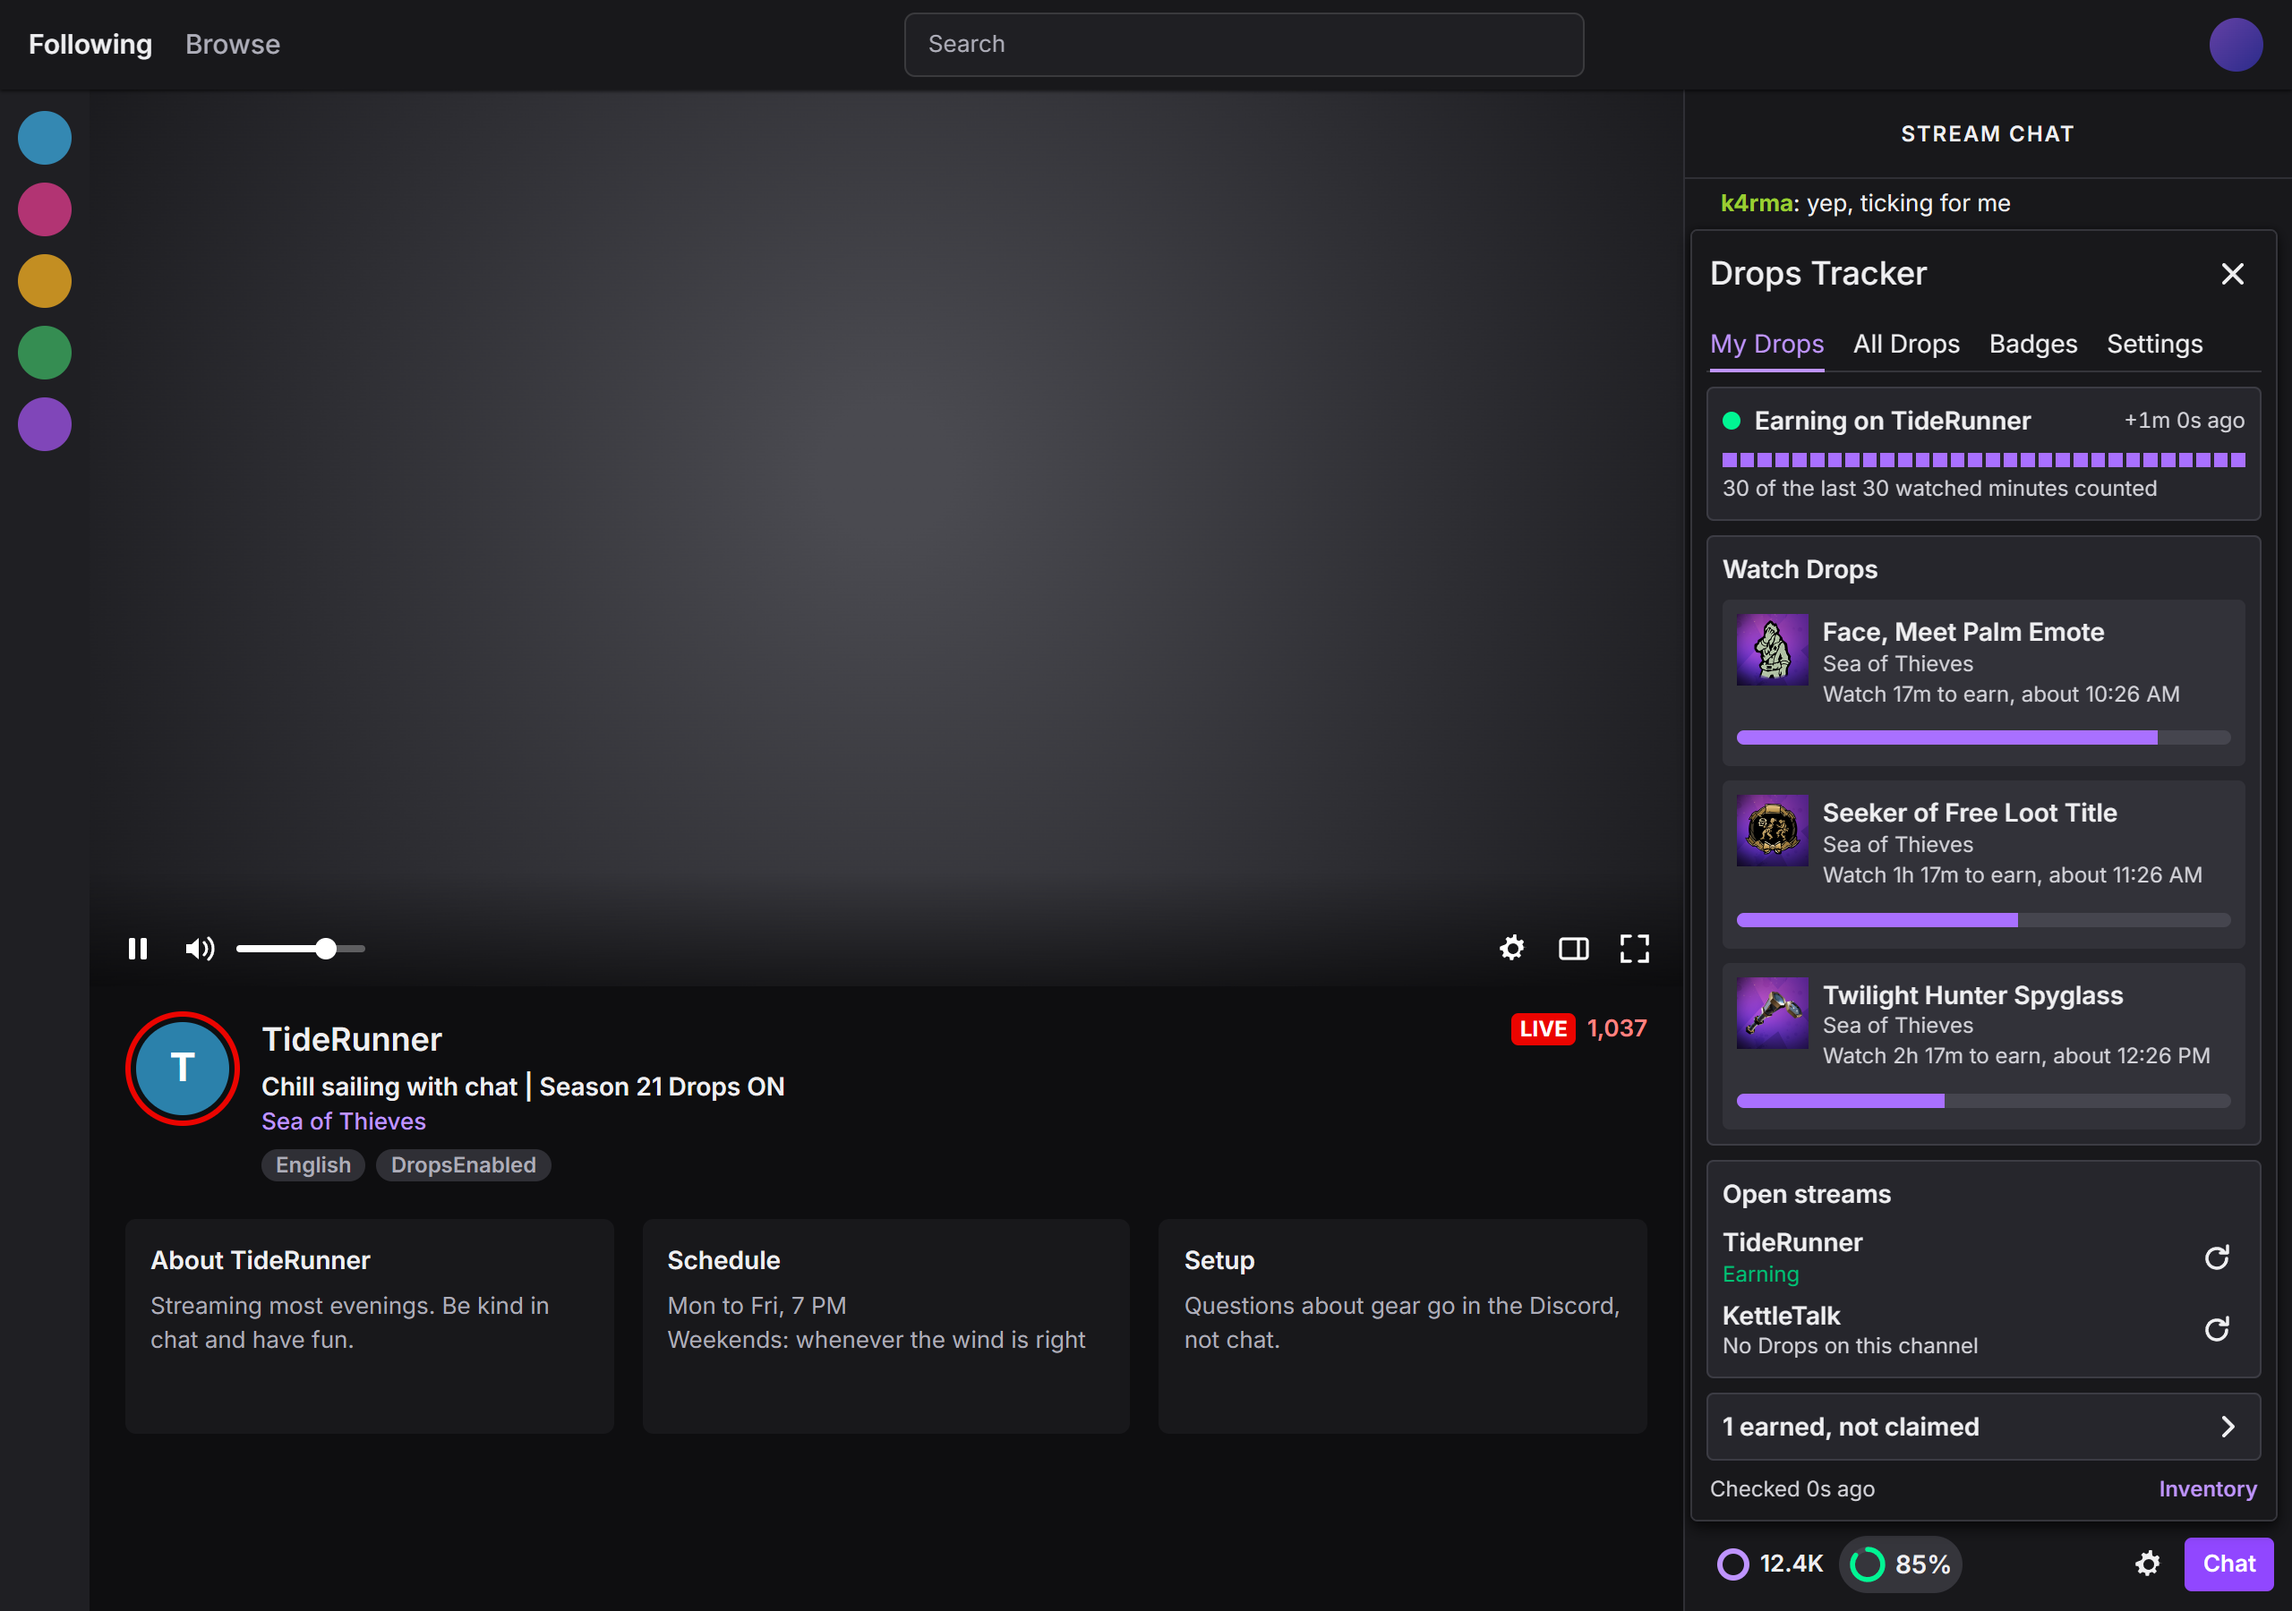
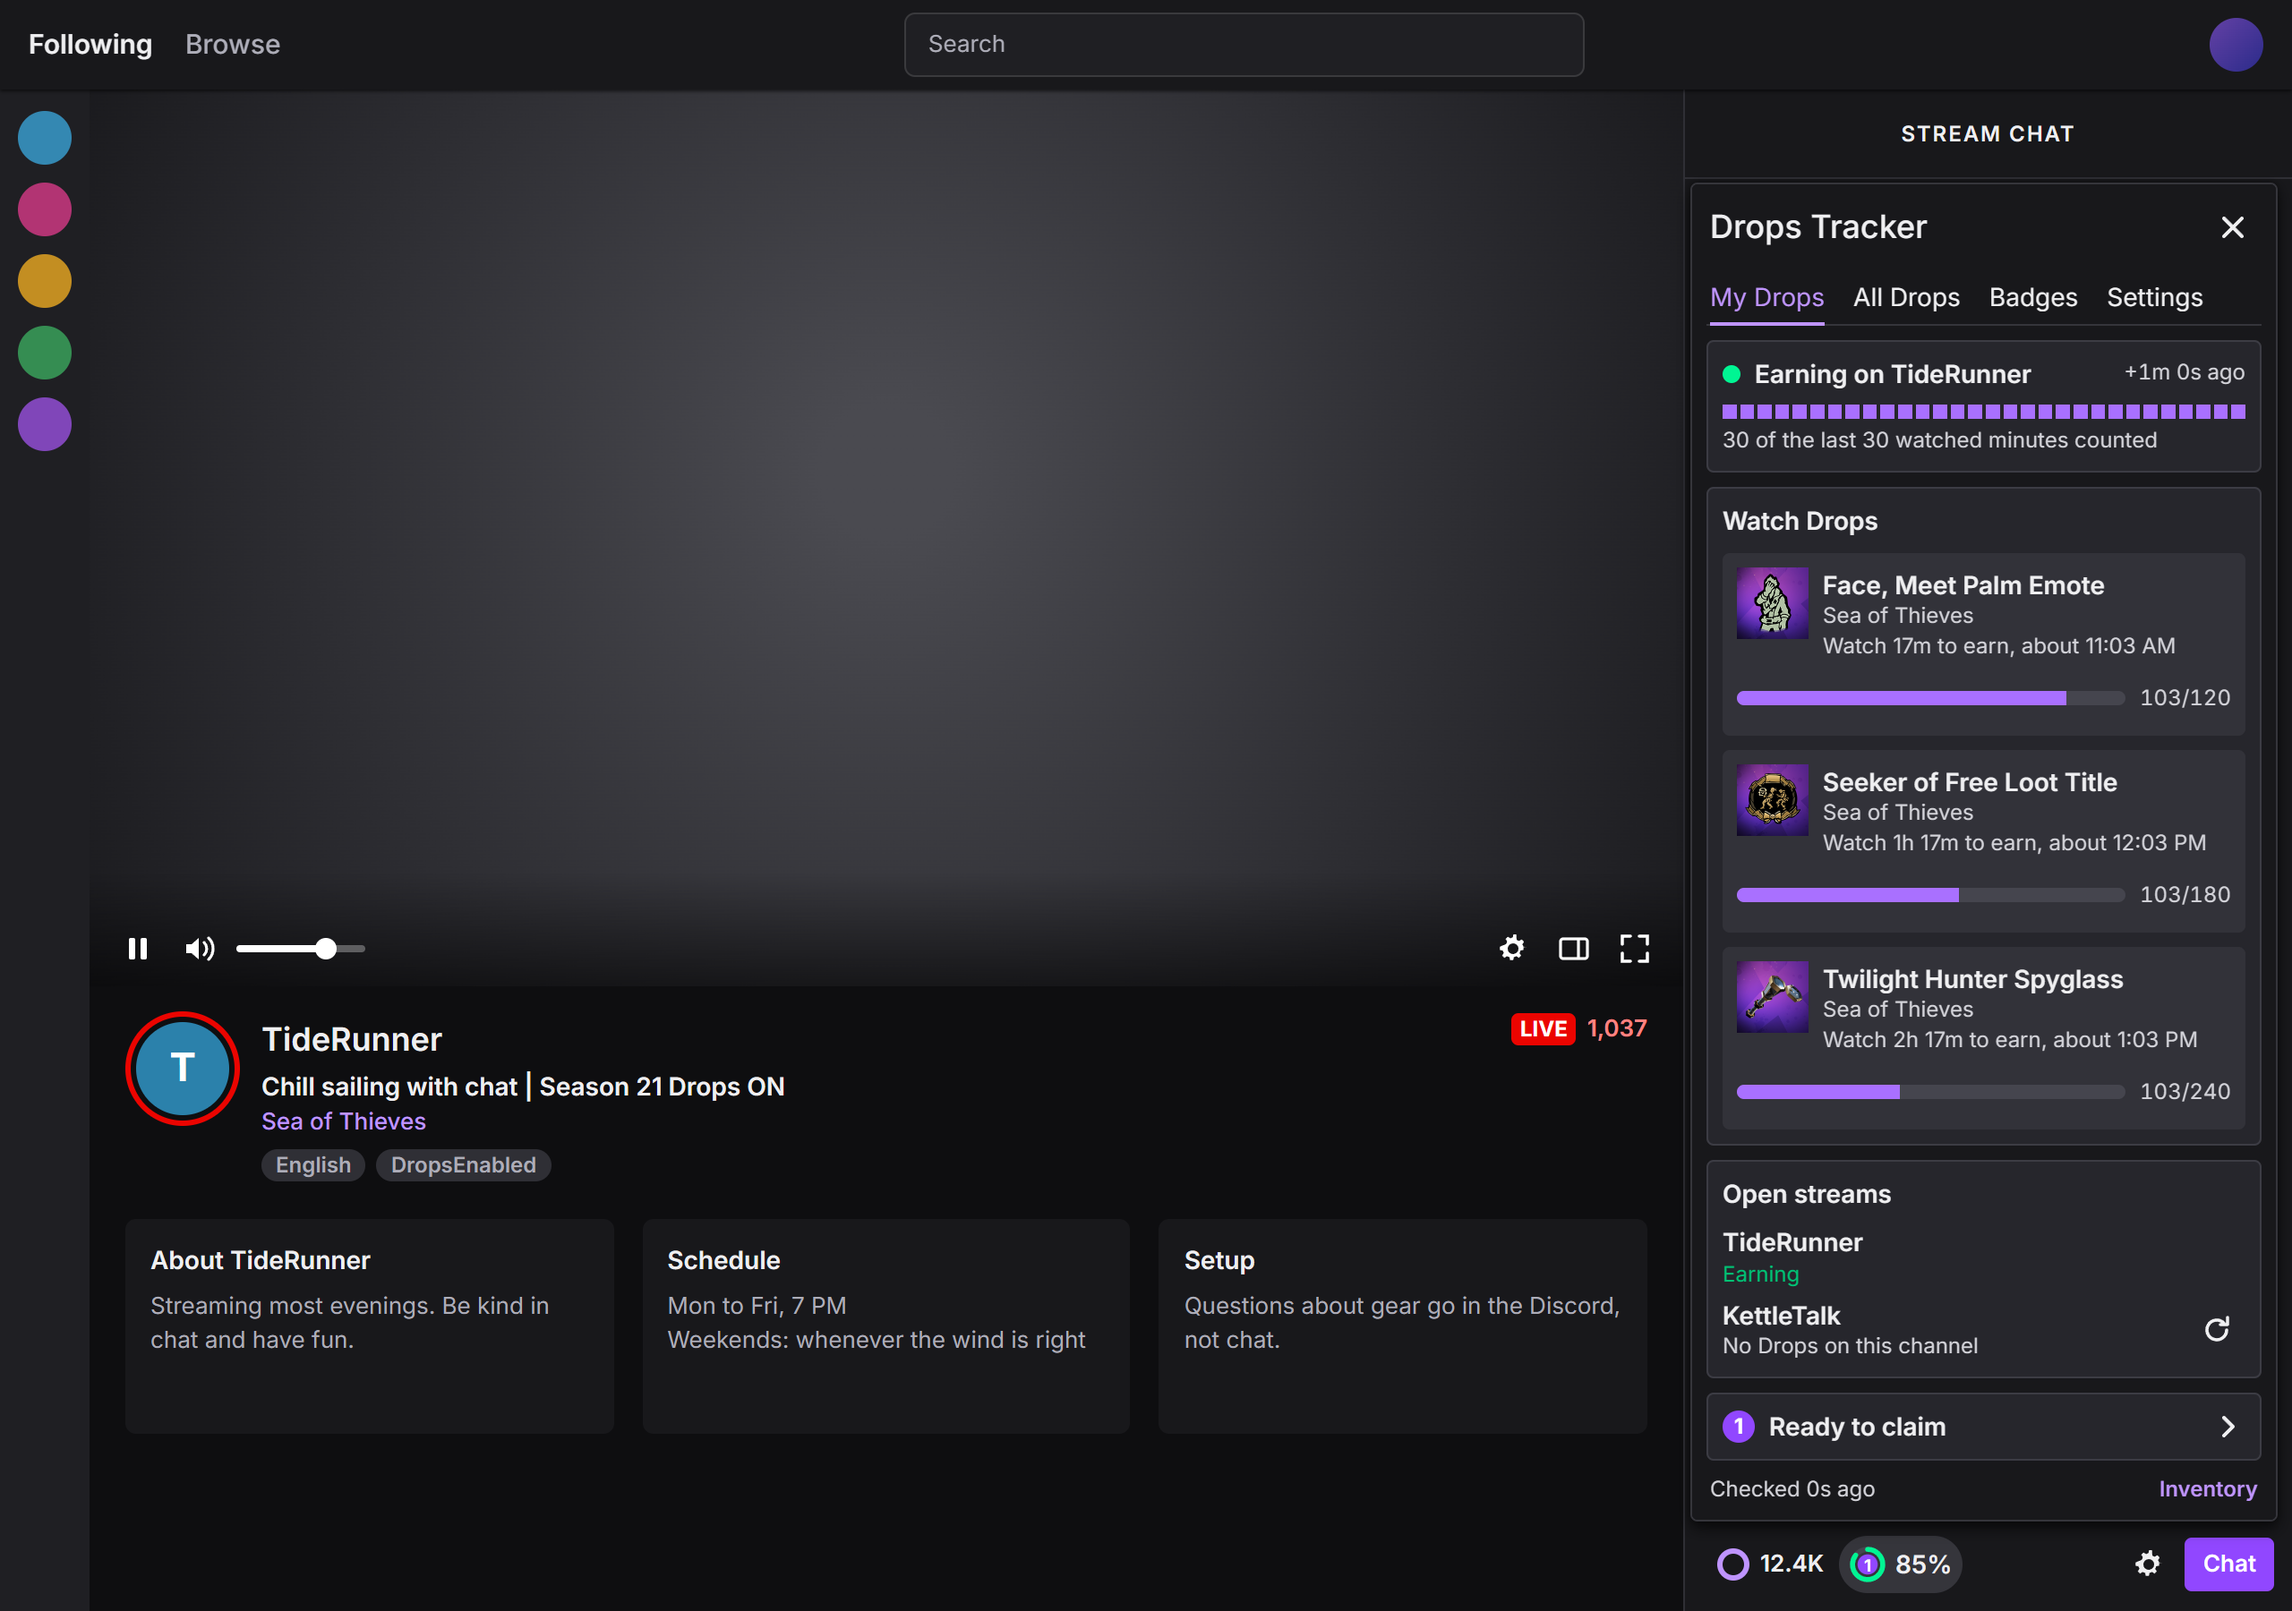
Drops Tracker: describe the tab helpers, debug copies; new images
- Homepage: the two helpers that reload Twitch tabs, both on by default
  and switchable off, instead of "read-only".
- Privacy policy: Copy debug info and Copy log hold a day of
  minute-by-minute channels; the claim notification can be switched
  off; images load from addresses Twitch supplies; single purpose
  sentence matches the store listing.
- New hero and chip-states images.

Changed region(s): [[0.75, 0.1244, 1.0, 0.7156], [0.75, 0.8711, 0.875, 0.9022], [0.9688, 0.1244, 1.0, 0.1556]]

diff --git a/drops-tracker/privacy/index.html b/drops-tracker/privacy/index.html
@@ -39,7 +39,7 @@
       <p>The extension looks only at tabs on <code>twitch.tv</code>. From their addresses it learns which channels you have open. Inside those tabs it reads the state of the video player: whether it is playing, paused, muted, hidden or showing an ad, how far the video has advanced, and its resolution. This is how it works out why minutes have stopped. It does not read tabs on any other website.</p>
 
       <h3>Data Twitch returns</h3>
-      <p>Twitch's answers include your Drops campaigns, minutes watched, unclaimed rewards, the channel Twitch is crediting, channel names, and campaign images. The images load from Twitch's servers.</p>
+      <p>Twitch's answers include your Drops campaigns, minutes watched, unclaimed rewards, the channel Twitch is crediting, channel names, and campaign images. The images load from the addresses Twitch supplies, which are Twitch's own servers.</p>
 
       <h3>Twitch's own page requests</h3>
       <p>Twitch occasionally changes the identifiers its page uses to request data. To keep working, the extension reads the requests that twitch.tv pages send to <code>gql.twitch.tv</code> and keeps only those identifiers for the four requests it uses. It does not read headers, so it never sees your token this way, and it keeps nothing else from those requests.</p>
@@ -63,13 +63,13 @@
 
       <h2>Things you do yourself</h2>
       <ul>
-        <li><strong>Copy debug info</strong> copies a summary to your clipboard only when you click it. It is built from a fixed list of fields, so it includes channels and progress but never your token. If you paste it into a bug report, it becomes public on GitHub.</li>
-        <li><strong>Notifications</strong> are shown by your browser on your device.</li>
+        <li><strong>Copy debug info</strong> and <strong>Copy log</strong>, both shown only with Developer mode on in the Settings tab, copy to your clipboard only when you click them. They are built from a fixed list of fields and never include your token, but they do include which channels you watched, minute by minute, for up to a day, and your progress. If you paste them into a bug report, they become public on GitHub.</li>
+        <li><strong>Notifications</strong> are shown by your browser on your device. The one for a drop ready to claim can be switched off with Claim reminders in the Settings tab.</li>
         <li><strong>Auto-refresh</strong> of the Drops page and <strong>auto-reload</strong> of a stalled stream tab are both on by default, can be switched off in the Settings tab, and only reload Twitch tabs you already have open.</li>
       </ul>
 
       <h2>Chrome Web Store Limited Use</h2>
-      <p>Drops Tracker's use of information complies with the <a href="https://developer.chrome.com/docs/webstore/program-policies/policies">Chrome Web Store User Data Policy</a>, including the <a href="https://developer.chrome.com/docs/webstore/program-policies/limited-use">Limited Use</a> requirements. User data is used only to provide the extension's single purpose, which is showing whether your Twitch Drops progress is rising. It is not used for advertising, not sold, and not read by any person.</p>
+      <p>Drops Tracker's use of information complies with the <a href="https://developer.chrome.com/docs/webstore/program-policies/policies">Chrome Web Store User Data Policy</a>, including the <a href="https://developer.chrome.com/docs/webstore/program-policies/limited-use">Limited Use</a> requirements. User data is used only to provide the extension's single purpose: tracking your Twitch Drops, which means showing whether Twitch is actually crediting your Drops watch-minutes, warning you and helping when it stops, and listing the Drops you can earn. It is not used for advertising, not sold, and not read by any person.</p>
 
       <h2>Children</h2>
       <p>The extension is meant for Twitch users and does not knowingly collect anything about anyone, children included.</p>

diff --git a/drops-tracker/index.html b/drops-tracker/index.html
@@ -55,7 +55,8 @@
       </figure>
 
       <h2>What it never does</h2>
-      <p>It is read-only. It never claims a drop, never simulates watching, and never opens a stream for you. It talks only to Twitch, and nothing is sent to me or anyone else. Details are in the <a href="/drops-tracker/privacy/">privacy policy</a>.</p>
+      <p>It never claims a drop, never simulates watching, and never opens a stream for you. It talks only to Twitch, and nothing is sent to me or anyone else. Details are in the <a href="/drops-tracker/privacy/">privacy policy</a>.</p>
+      <p>Two helpers do touch your Twitch tabs, both on by default and both can be switched off in the panel's Settings tab: it reloads open Drops pages, which never update by themselves, and reloads a stream tab whose minutes have stopped, at most 3 times.</p>
 
       <div class="note">
         <p>Unofficial and not affiliated with Twitch. It uses the same private requests as twitch.tv, which Twitch can change without notice.</p>
